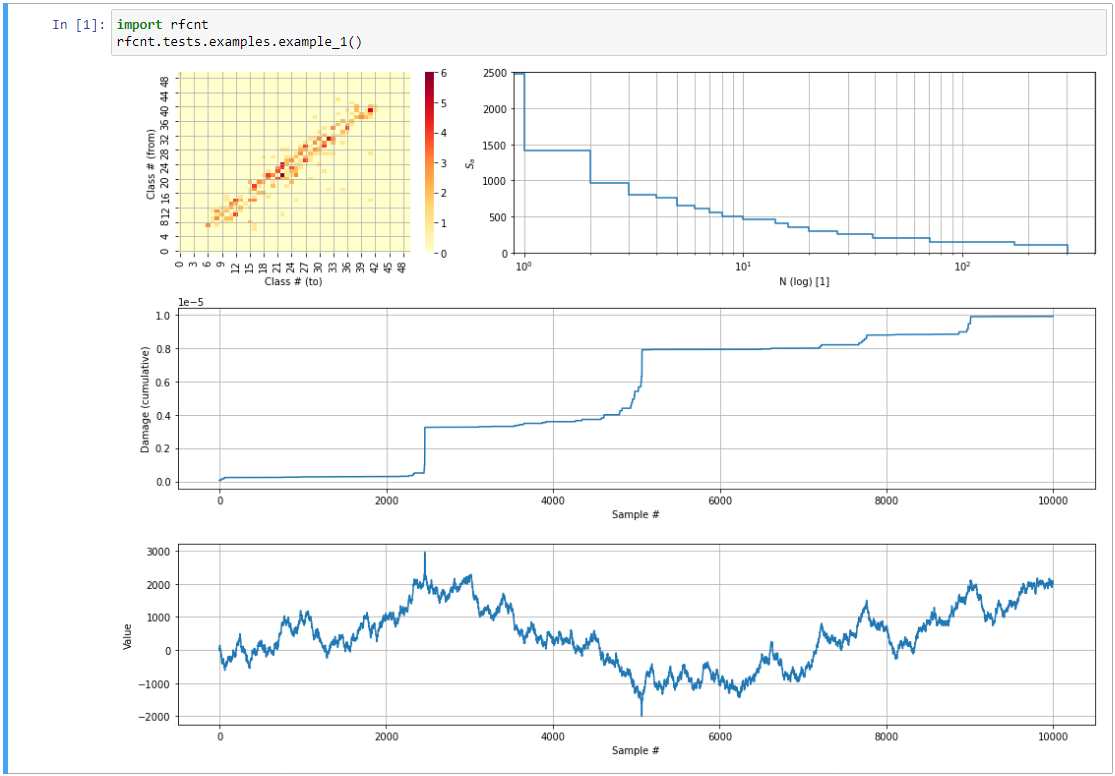
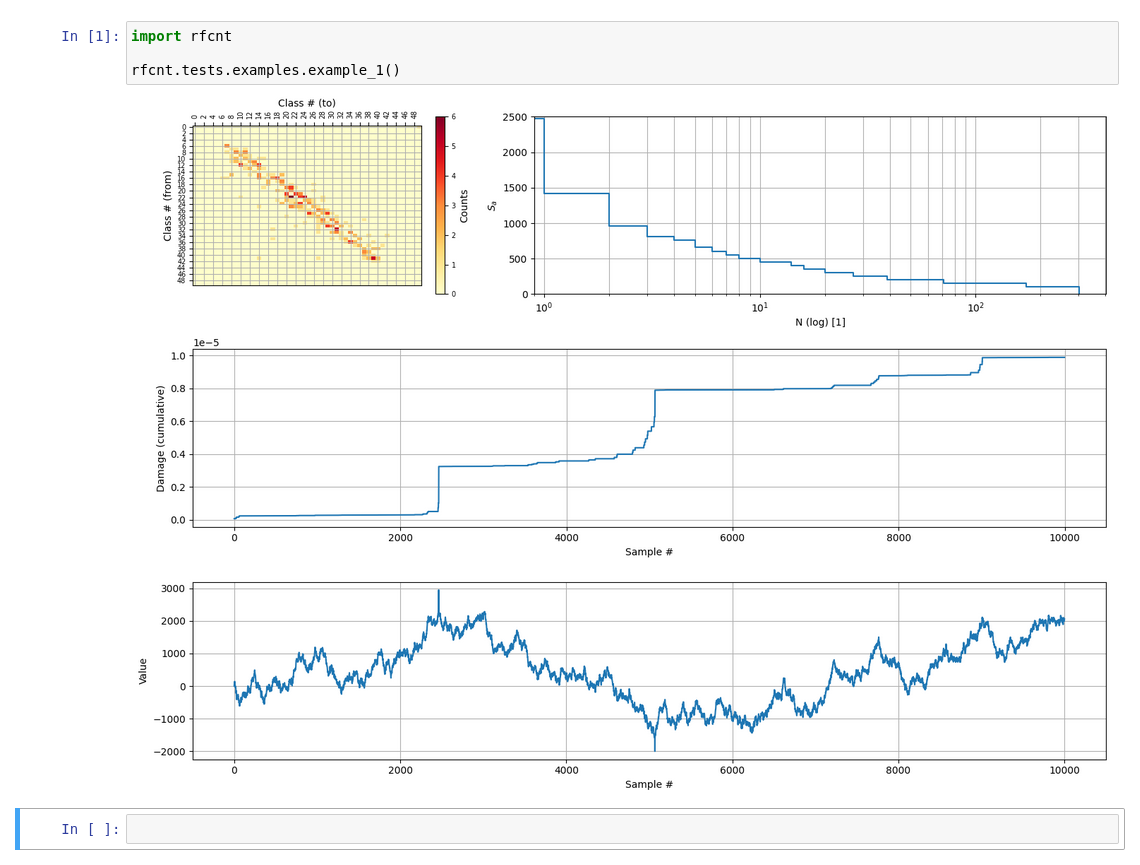
Version 0.8 (rainflow) and 0.4.4 (rfcnt)
Updated tests

Changed region(s): [[0.0, 0.0, 1.0, 1.0], [0.0915, 0.8041, 0.122, 0.8351]]

diff --git a/test/rfc_test.c b/test/rfc_test.c
@@ -1626,15 +1626,15 @@ TEST RFC_res_repeated( void )
 /*
                                                            
     7.5 ___________________________________________________
-                      +               o                    
+                      +       o                            
     6.5 ___________________________________________________
                                                            
     5.5 ___________________________________________________
-              +               o                            
+              *                                            
     4.5 ___________________________________________________
                                                            
     3.5 ___________________________________________________
-                  +               o                        
+                  *                                        
     2.5 ___________________________________________________
           +               o                                
     1.5 ___________________________________________________
@@ -1650,7 +1650,7 @@ TEST RFC_res_repeated( void )
 
     damage_5_3 = pow( ( (5.0-3.0)/2 / ctx.wl_sx ), fabs(ctx.wl_k) ) / ctx.wl_nx;
     damage_7_2 = pow( ( (7.0-2.0)/2 / ctx.wl_sx ), fabs(ctx.wl_k) ) / ctx.wl_nx;
-    damage = damage_5_3 * 2 + damage_7_2;
+    damage = damage_5_3 + damage_7_2;
 
     if( RFC_init( &ctx, 10 /* class_count */, 1 /* class_width */, -0.5 /* class_offset */,
                         1 /* hysteresis */, RFC_FLAGS_DEFAULT ) )
@@ -1705,12 +1705,12 @@ TEST RFC_res_repeated( void )
     ASSERT( ctx.tp[3].pos == 4 && ctx.tp[3].adj_pos == 1 );
 #if RFC_DH_SUPPORT
     ASSERT(               ctx.tp[0].damage == 0.0 );
-    ASSERT_IN_RANGE( 1.0, ctx.tp[1].damage / (damage_5_3*2), 1e-10 );
+    ASSERT_IN_RANGE( 1.0, ctx.tp[1].damage / damage_5_3, 1e-10 );
     ASSERT(               ctx.tp[2].damage == 0.0 );
-    ASSERT_IN_RANGE( 1.0, ctx.tp[3].damage /  damage_7_2,    1e-10 );
+    ASSERT_IN_RANGE( 1.0, ctx.tp[3].damage / damage_7_2, 1e-10 );
 #endif /*RFC_DH_SUPPORT*/        
 #endif /*RFC_TP_SUPPORT*/
-    ASSERT_IN_RANGE( 1.0, ctx.damage / damage,               1e-10 );
+    ASSERT_IN_RANGE( 1.0, ctx.damage / damage,           1e-10 );
     ASSERT( RFC_deinit( &ctx ) );
 
     PASS();

diff --git a/python/tests/examples.py b/python/tests/examples.py
@@ -1,6 +1,7 @@
-import numpy as np
-from rfcnt import rfcnt, utils # Rainflow module (ftc2)
 import os
+import numpy as np
+import matplotlib.ticker as ticker
+from rfcnt import rfcnt, utils # Rainflow module (ftc2)
 
 
 def __get_script_path():
@@ -12,9 +13,8 @@ def example_1():
         import pandas as pd
         import matplotlib.pyplot as plt
         from matplotlib.gridspec import GridSpec
-        import seaborn as sns
     except ImportError as err:
-        print("This example requires modules 'pandas', 'matplotlib' and 'seaborn!'")
+        print("This example requires modules pandas` and `matplotlib`!")
         raise err
 
     data = pd.read_csv(
@@ -41,12 +41,23 @@ def example_1():
 
     fig = plt.figure(figsize=(14, 10))
     gs = GridSpec(nrows=3, ncols=2, width_ratios=[1, 2])
+
+    # RF matrix
     ax1 = fig.add_subplot(gs[0, 0])
-    sns.heatmap(res["rfm"], cmap="YlOrRd", ax=ax1)
-    ax1.invert_yaxis()
+    im = ax1.imshow(res["rfm"], cmap="YlOrRd", aspect=0.7)
+    cb = plt.colorbar(im, ax=ax1, label="Counts")
+    cb.ax.tick_params(labelsize="x-small")
+    ax1.yaxis.set_major_locator(ticker.MultipleLocator(2))
+    ax1.xaxis.set_major_locator(ticker.MultipleLocator(2))
+    ax1.xaxis.set_ticks_position("top")
+    ax1.xaxis.set_label_position("top")
+    ax1.tick_params(axis="x", labelsize="x-small", labelrotation=90)
+    ax1.tick_params(axis="y", labelsize="x-small")
     plt.grid(which="both")
     plt.xlabel("Class # (to)")
     plt.ylabel("Class # (from)")
+
+    # Range pairs
     r = utils.rpplot_prepare(sa=res["rp"][:, 0] / 2, counts=res["rp"][:, 1])
     ax2 = fig.add_subplot(gs[0, 1])
     # Stairs plot from right to left
@@ -60,11 +71,15 @@ def example_1():
     plt.grid(which="both")
     plt.xlabel("N (log) [1]")
     plt.ylabel("$S_a$")
+
+    # Damage history
     ax3 = fig.add_subplot(gs[1, :])
     ax3.plot(np.arange(len(res["dh"])), res["dh"].cumsum())
     plt.grid(which="both")
     plt.xlabel("Sample #")
     plt.ylabel("Damage (cumulative)")
+
+    # Time series
     ax4 = fig.add_subplot(gs[2, :])
     ax4.plot(np.arange(len(data)), data)
     plt.grid(which="both")
